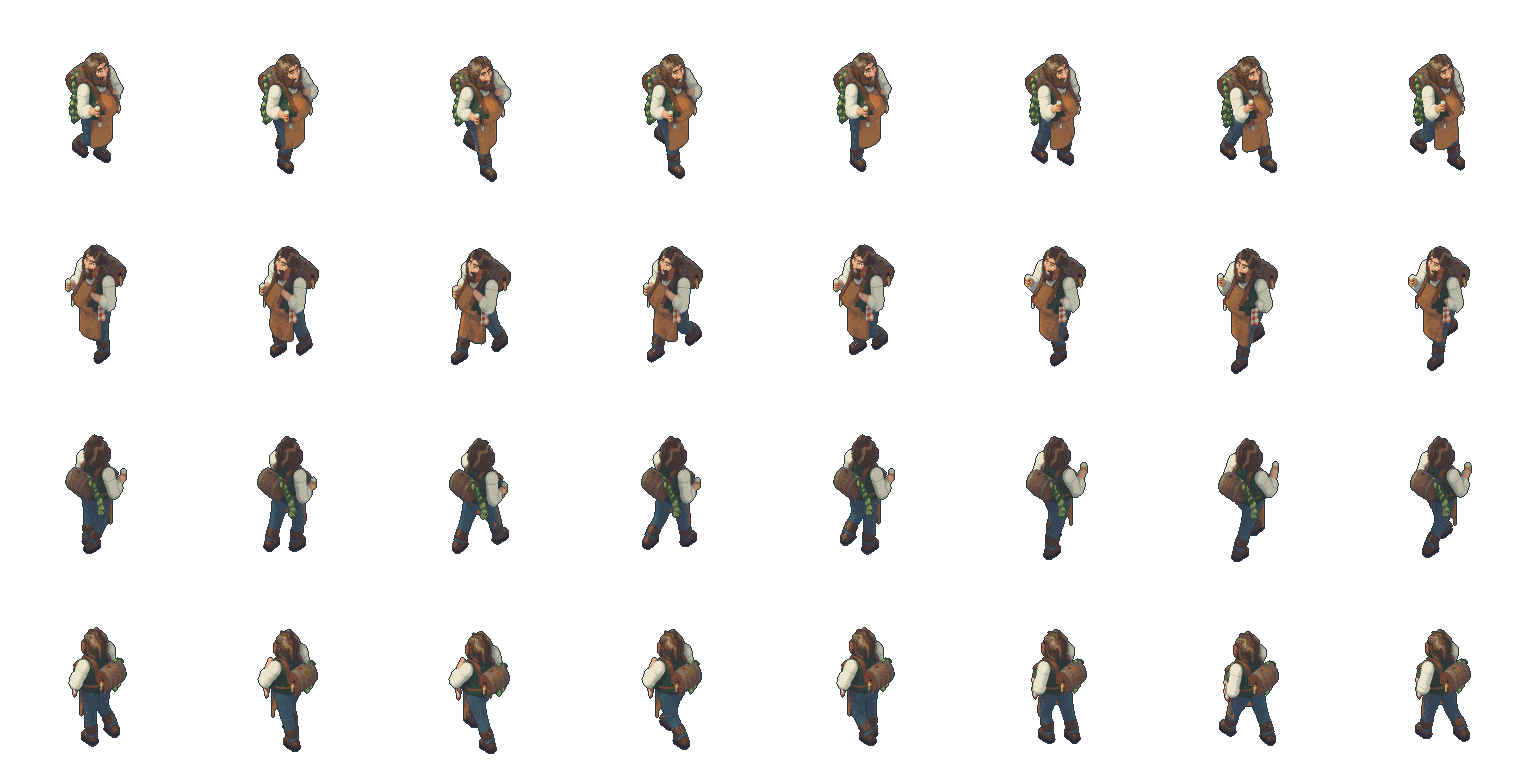
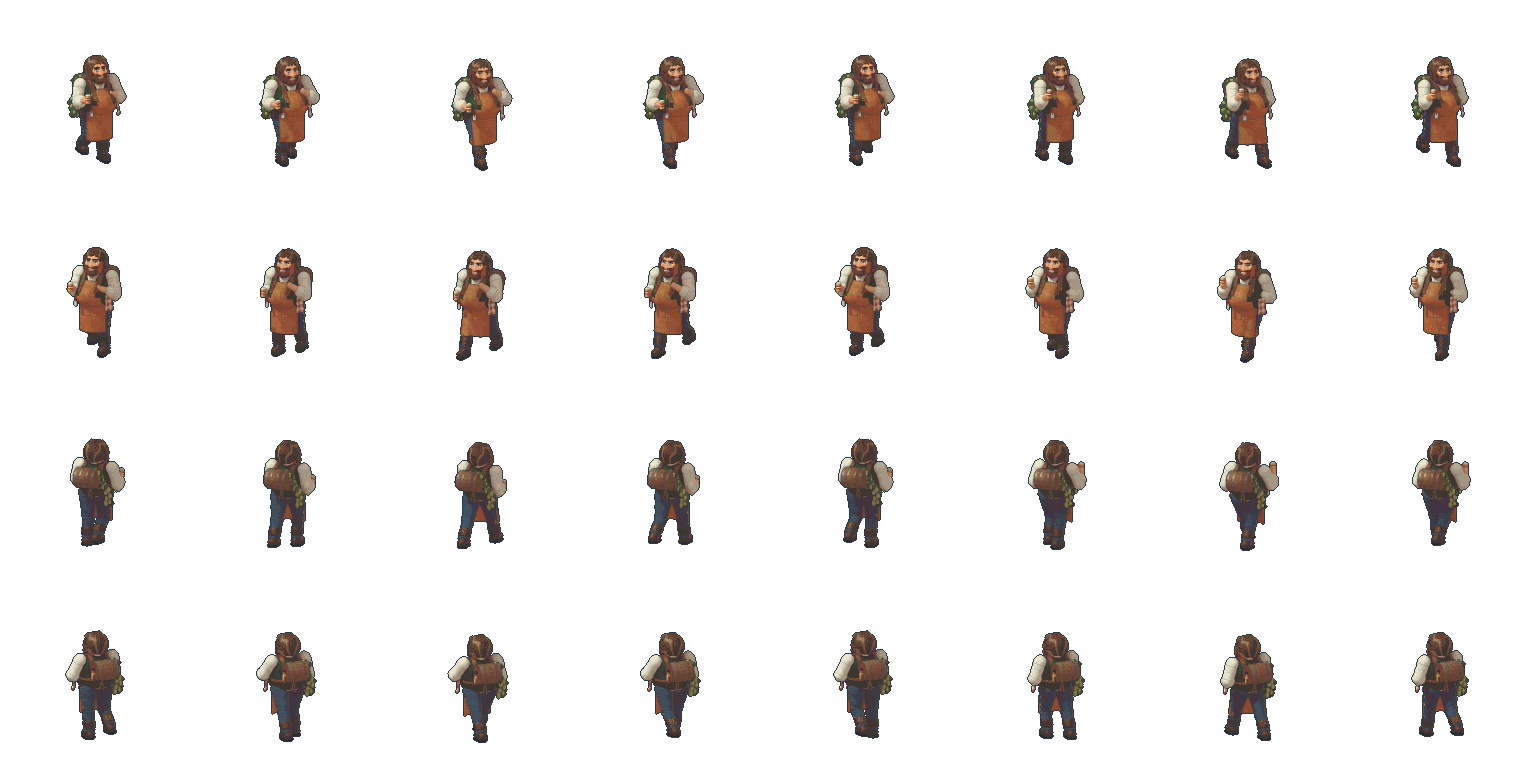
Figuren warm und nah an den gemalten Bögen: Ida in 9 Abgleich-Runden (E-58)
Nutzerbefund: zu kalt, zu wenig Details. Figuren jetzt mit warmer Rampe
(setMood), flacher Kamera (15°), fast frontaler Blickrichtung, größeren
dunklen Augen, schmalerem Gesicht (face.breite), Lockenfrisur (locken),
warmen Haarbüscheln, ruhigerer Schürze (falten), Mund laecheln.
Ida: Seiten wie im Original, A-Stand, Holzkasten vor der Hüfte.
Alle vier Bude-Figuren neu gerendert; forge-bude-check mit --vorher.

diff --git a/precache-manifest.js b/precache-manifest.js
@@ -1,6 +1,6 @@
 // Generated by scripts/pwa-cache.mjs; release content hash.
 self.PRECACHE={
-  "version": "e909b0df072159b8",
+  "version": "7dbd63940fb1f564",
   "urls": [
     "activities.js",
     "admin-commands.js",

diff --git a/docs/SPRITE-SCHMIEDE.md b/docs/SPRITE-SCHMIEDE.md
@@ -110,6 +110,22 @@ export const MODELS={
 | `rim` | kühles Kantenlicht von hinten rechts, trennt die Figur vom Boden |
 | `bands` | Helligkeit zu gemalten Stufen ziehen |
 
+### Figuren wie die gemalten Bögen (Ida-Abgleich, 9 Runden, 23.09.2026)
+
+Nutzerbefund: „sehr kalt statt warm und rund, es fehlen deutlich viele Details“. Beim Abgleich mit dem gemalten Präzisionsbogen von Ida (`assets/precision/runtime/npcs/ida.png`) hat sich Folgendes als Regel für Figuren ergeben:
+
+| Regel | Umsetzung |
+|---|---|
+| Warmes Licht | `setMood('warm')` in `figures.mjs`: Schatten laufen ins Rotbraun statt ins Violett. Das Kantenlicht ist warm (`rimTint`), die Belichtung liegt bei `exposure .84`. |
+| Fast frontal | Figurenkamera 15° statt 35°. `FACING` se/sw nur 25° gedreht. Die Gesichtskippung `TILT` beträgt 5°, bei 16° wirkten die Augen geschlossen. |
+| Weich statt gestuft | `bands: 0` |
+| Stilisierte Köpfe | Kopf ≈ 1/4,7 der Figur (Archetyp `head`). Das Gesicht wird mit `face.breite` schmaler, das Haarvolumen darum herum bleibt breit. |
+| Große dunkle Augen | Das Auge ist 2–3 px hoch, die Iris groß und dunkel, das Augenweiß warm und wenig sichtbar, die Lidlinie kräftig. |
+| Haar mit Büscheln | Warme dunkle Büschel (`#5a2412`), tieferes Strähnenrelief. Neuer Stil `locken`: seitliches Volumen, Locken rahmen das Gesicht. |
+| Ruhige Flächen | Die Schürze bekommt die Option `falten` (Ida .3), sonst wirken die Röhrenfalten in Spielgröße wie Schmutzstreifen. |
+
+**Vergleichswerkzeug** (im Scratchpad der Sitzung, schnell neu zu bauen): Original und Schmiede als Grundhaltung se/sw nebeneinander, 4× vergrößert und 1×, dazu ein Kopfausschnitt 8×. Der Posenbogen jedes `--dry`-Laufs liegt unter `visual-review/forge/bogen/<name>-<id>.png`.
+
 ## Figuren (Körperteile zum Wiederverwenden)
 
 `tools/sprite-forge/figure.mjs` setzt Figuren aus Modulen zusammen, jedes mit eigenem Besitzer:
